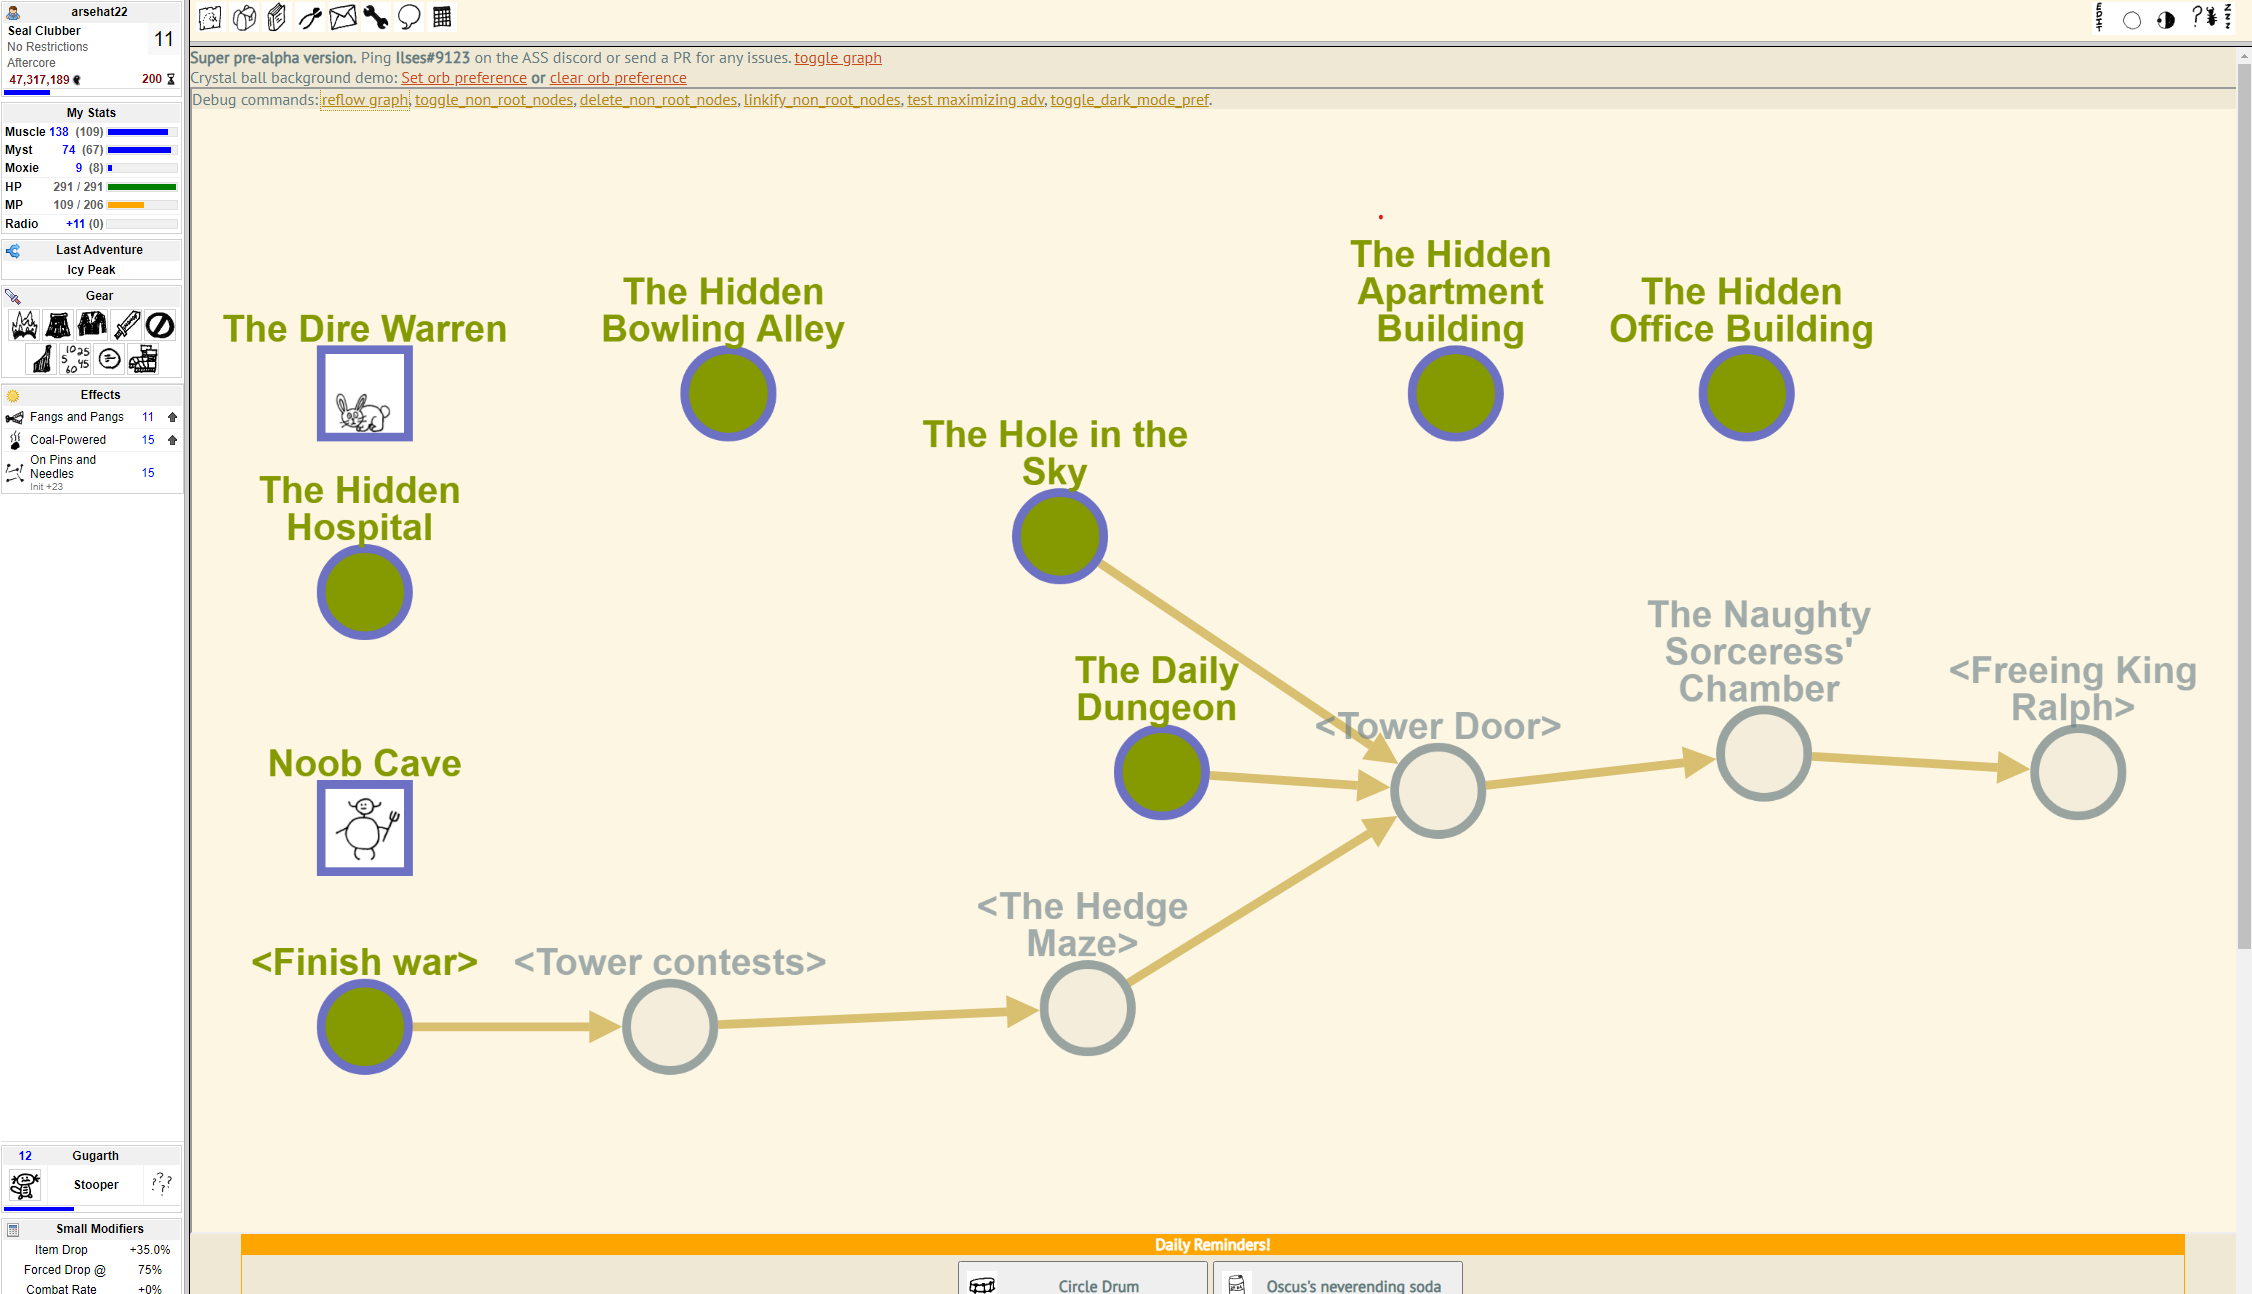
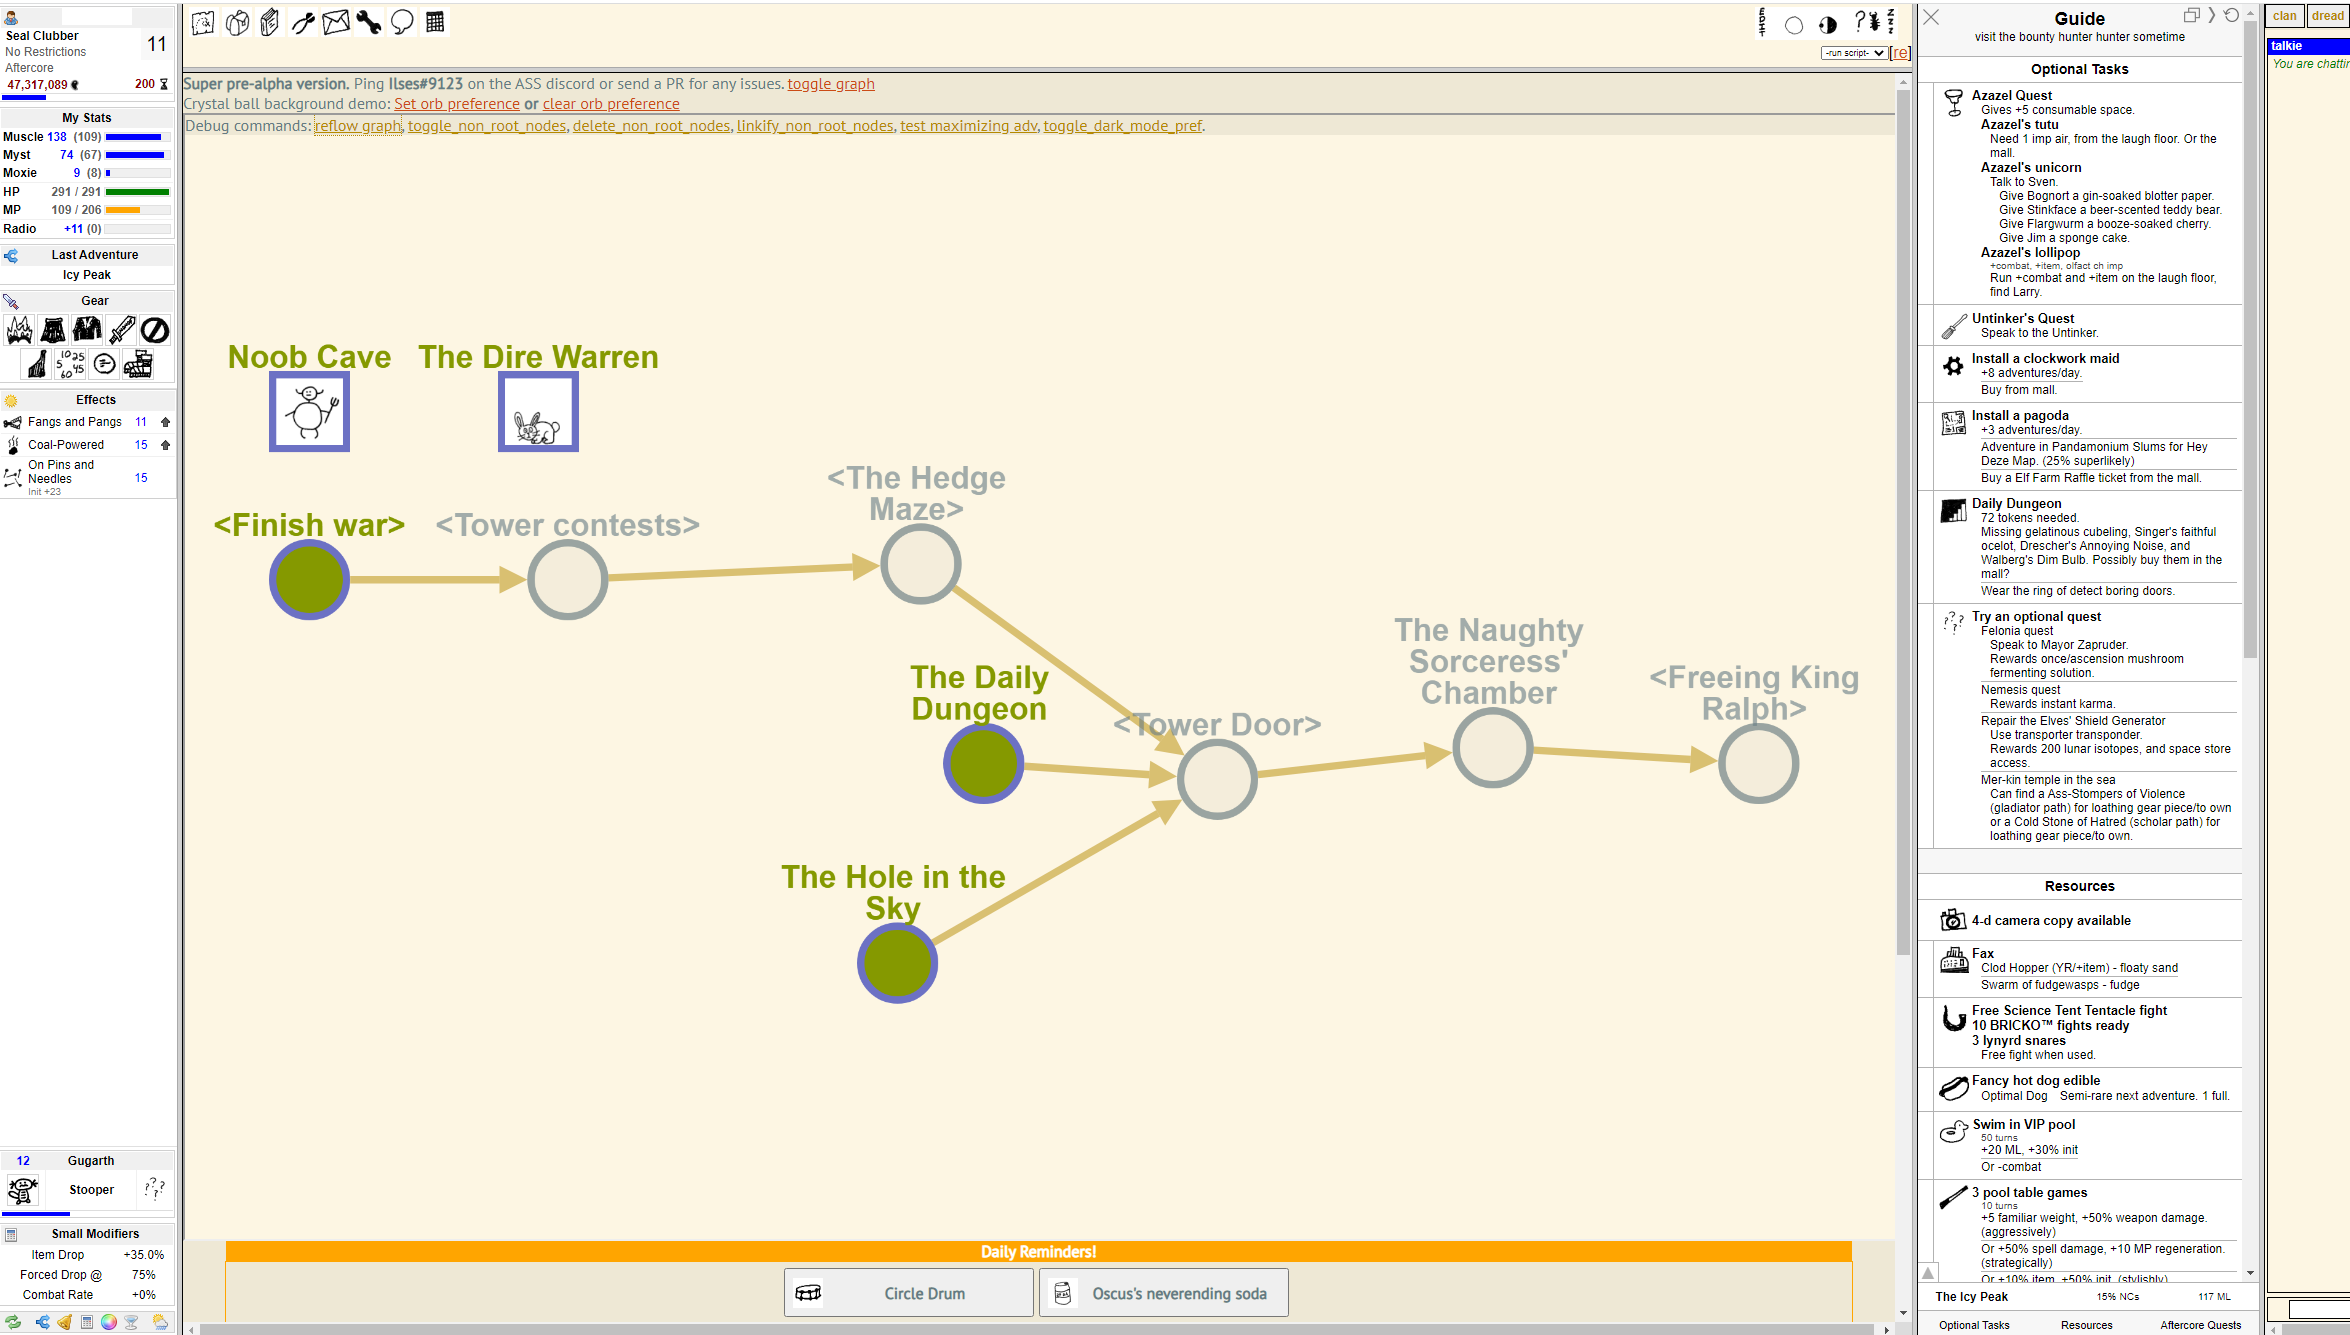
Update image preview.
Hack support chat pane coloring.

Fix hidden city counter off-by-one.

diff --git a/src/relay/gnui.html b/src/relay/gnui.html
@@ -56,13 +56,16 @@ update_graph_visibility()
 
 // Apply our style choices everywhere (except ChiT).
 function global_apply_style(link) {
-  // TODO: Dark mode could also invert images. Make this a pref?
+  // TODO: This chat support is a total hack.
+  window.parent.parent.frames['chatpane'].document.getElementsByTagName('link')[1].href = link
   for (var i = 0; i < window.parent.parent.frames.length; i++) {
     // Blacklist the ChiT pane, since it uses a custom style that we don't want to break.
     if (window.parent.parent.frames[i].name == 'charpane') {
       continue;
     }
-    window.parent.parent.frames[i].$('link[rel=stylesheet]').each(function () { this.href = link })
+    if (window.parent.parent.frames[i].$ != undefined) {
+      window.parent.parent.frames[i].$('link[rel=stylesheet]').each(function () { this.href = link })
+    }
   }
 }
 
@@ -74,7 +77,9 @@ function global_invert_images(images_inverted) {
     if (window.parent.parent.frames[i].name == 'charpane') {
       continue;
     }
-    window.parent.parent.frames[i].$('img').css('filter', 'invert('+val+')')
+    if (window.parent.parent.frames[i].$ != undefined) {
+      window.parent.parent.frames[i].$('img').css('filter', 'invert('+val+')')
+    }
   }
   // TODO: Cytoscape nodes don't seem to support style filters?
   //cy.$('node').style('filter', 'invert('+val+')')
@@ -1019,22 +1024,22 @@ async function parallel_prune_graph() {
       }
     }),
     
-    cli_execute("get_property('hiddenApartmentProgress') > 8").then(response => {
+    cli_execute("get_property('hiddenApartmentProgress') >= 8").then(response => {
       if (response == 'true') {
         cy.remove('node[name = "The Hidden Apartment Building"]')
       }
     }),
-    cli_execute("get_property('hiddenBowlingAlleyProgress') > 8").then(response => {
+    cli_execute("get_property('hiddenBowlingAlleyProgress') >= 8").then(response => {
       if (response == 'true') {
         cy.remove('node[name = "The Hidden Bowling Alley"]')
       }
     }),
-    cli_execute("get_property('hiddenHospitalProgress') > 8").then(response => {
+    cli_execute("get_property('hiddenHospitalProgress') >= 8").then(response => {
       if (response == 'true') {
         cy.remove('node[name = "The Hidden Hospital"]')
       }
     }),
-    cli_execute("get_property('hiddenOfficeProgress') > 8").then(response => {
+    cli_execute("get_property('hiddenOfficeProgress') >= 8").then(response => {
       if (response == 'true') {
         cy.remove('node[name = "The Hidden Office Building"]')
       }
